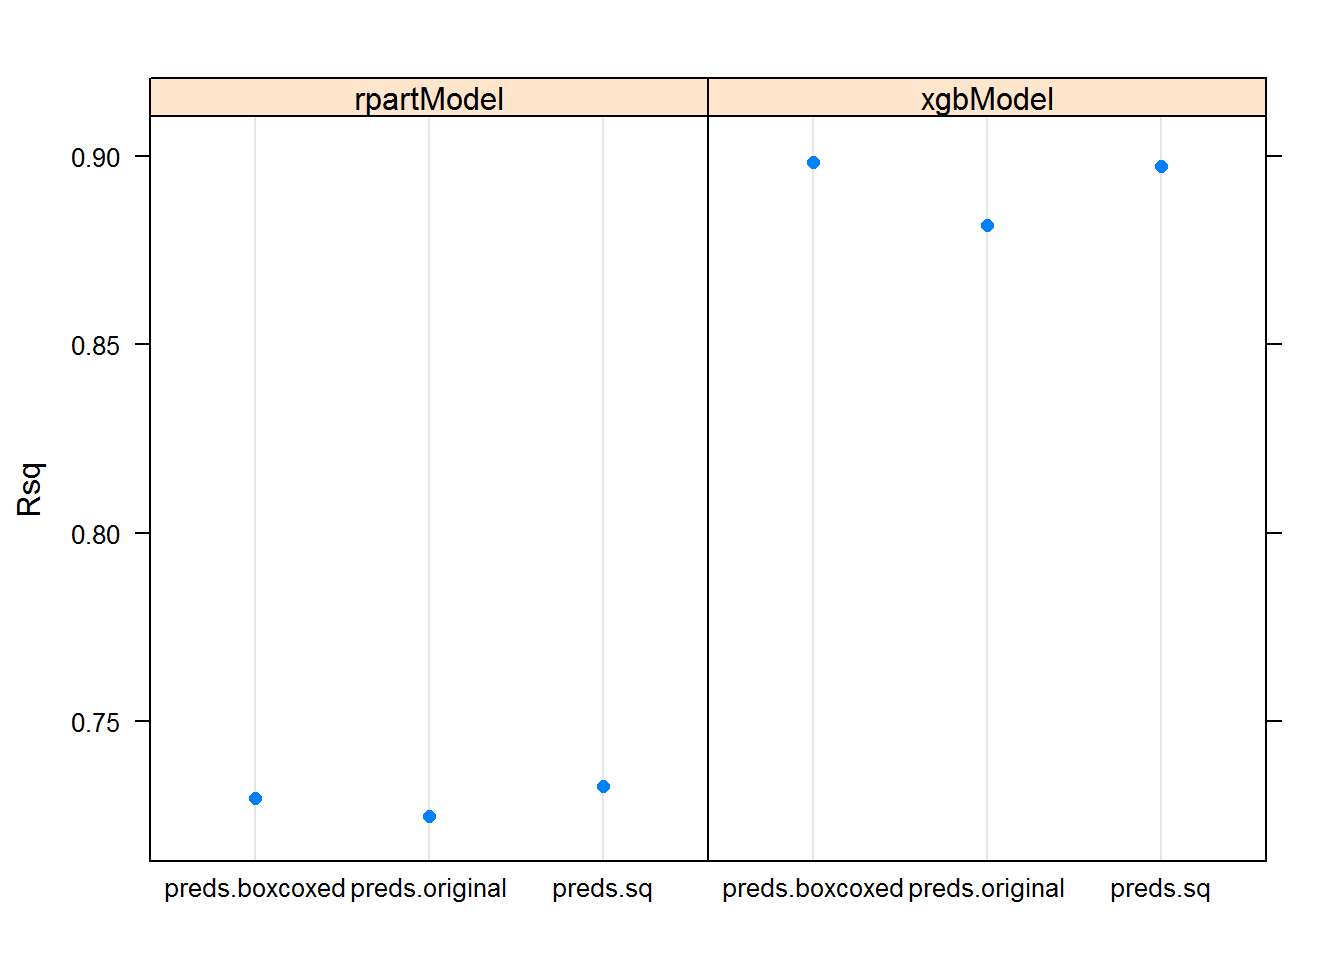
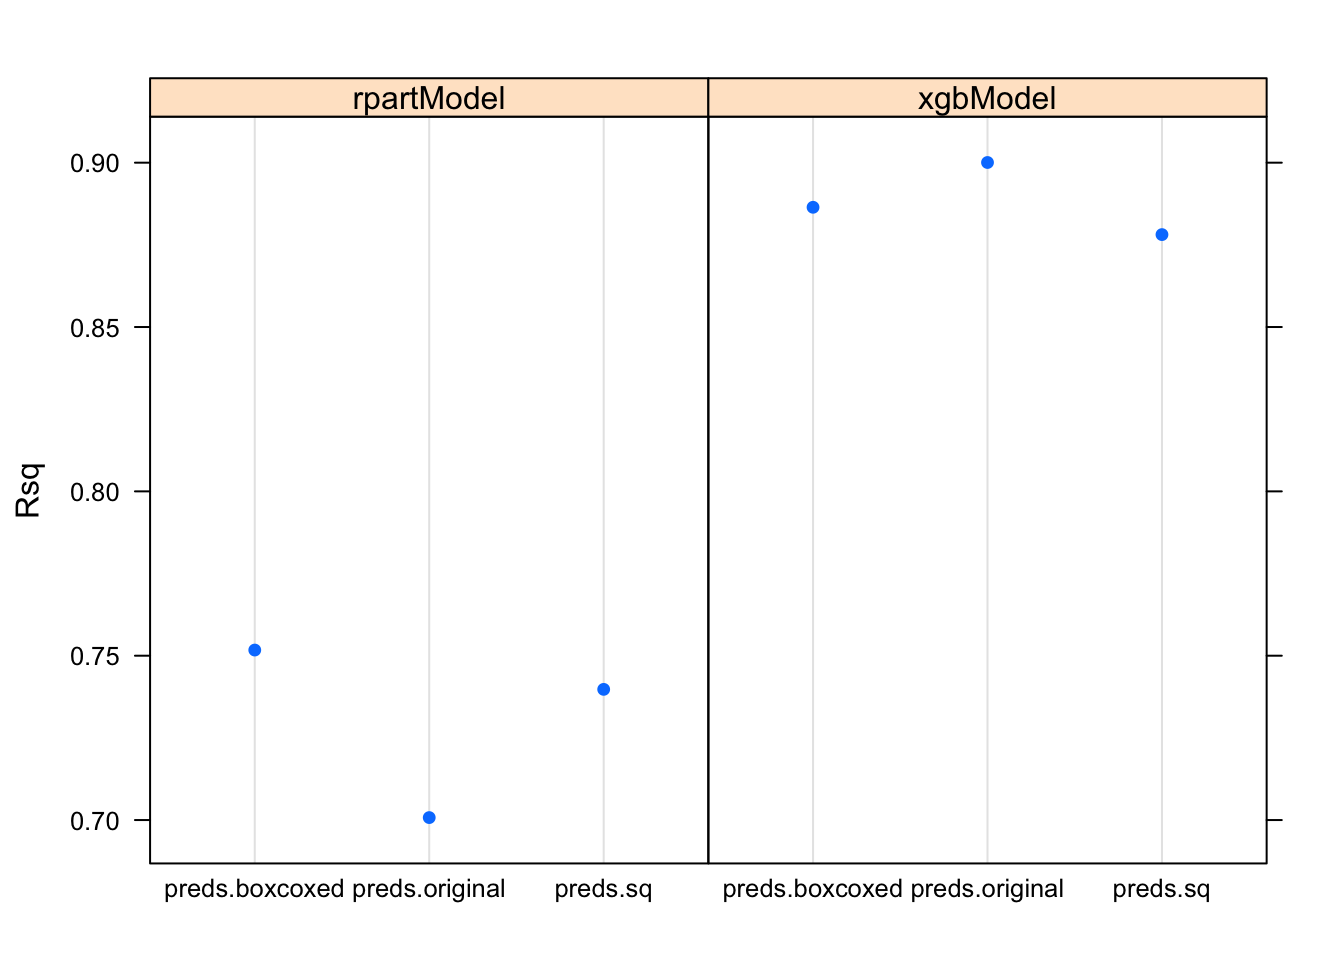
Creates FA_traits project page.

diff --git a/content/project/2016-09-03-factor-analysis-of-personality-traits.html b/content/project/2016-09-03-factor-analysis-of-personality-traits.html
@@ -1,0 +1,130 @@
+---
+title: Factor Analysis of Personality Traits
+author: Rahul Sangole
+date: '2016-09-03'
+slug: factor-analysis-of-personality-traits
+categories:
+  - R
+tags:
+  - R
+  - factor analysis
+  - multivariate
+output:
+  blogdown::html_page:
+    toc: true
+---
+
+
+<div id="TOC">
+<ul>
+<li><a href="#background">Background</a></li>
+<li><a href="#objective">Objective</a></li>
+<li><a href="#duplication-of-the-survey">Duplication of the Survey</a></li>
+<li><a href="#results">Results</a></li>
+<li><a href="#what-does-the-factor-analysis-tell-us">What does the factor analysis tell us?</a></li>
+<li><a href="#conclusion">Conclusion</a></li>
+<li><a href="#how-many-factors-to-select">How many factors to select?</a></li>
+<li><a href="#wheres-the-r-code">Where’s the R code?</a></li>
+</ul>
+</div>
+
+<div id="background" class="section level3">
+<h3>Background</h3>
+<p>In the course <a href="http://sps.northwestern.edu/program-areas/graduate/predictive-analytics/program-courses.php?course_id=2809&amp;term=4640">Predict-410</a>: Linear Regression &amp; Multivariate Analyses, taught by the excellent <a href="http://www.syamalasrinivasan.com/">Prof Srinivasan</a>, we were taught Factor Analysis (FA). FA is a technique used to identify ‘latent’ or ‘hidden’ factors common to a larger pool of observable or measurable variables. These factors would cause the measurable variables to behave the way they do. Typically, the aim is to identify a smaller set of factors (k) compared to the number of variables (n), i.e. k&lt;&lt;&lt;n. We expect a smaller set of common factors to cause the variances in the measured variables. This is a useful method of dimension reduction.</p>
+<p>In course of learning about factor analysis, I found a few good resources on the subject. One of them, <a href="http://web.stanford.edu/class/psych253/tutorials/FactorAnalysis.html">here</a>, applies factor analysis to a data set collected by Prof Malle of Brown University. <a href="https://www.brown.edu/Departments/CLPS/people/bertram-malle">Prof Malle</a> collected data on 32 personality traits, as reported via a self-evaluation of 240 participants.</p>
+</div>
+<div id="objective" class="section level3">
+<h3>Objective</h3>
+<p>The objective of the original study, as stated by the article: ‘… it’s unlikely there are actually 32 different dimensions of personality; rather people probably vary along a small number of dimensions…’.</p>
+<p>My objective:</p>
+<ol style="list-style-type: decimal">
+<li>Recreate this study and see for myself: Can I replicate the results?</li>
+<li>How many factors will I need to account for most of the variation?</li>
+<li>How would I interpret the factors I find? How would these align to my expectations about overall personality traits and align ?</li>
+</ol>
+</div>
+<div id="duplication-of-the-survey" class="section level3">
+<h3>Duplication of the Survey</h3>
+<p>I re-created a version of Prof Malle’s survey on <a href="https://www.surveymonkey.com/r/MN82SJ7">survey monkey</a>. The survey is still open, so feel free to take it. At the point of writing this post, I had a total of 61 responses from my Facebook friends. It would be nice to match Prof Malle’s sample size of 240.</p>
+<p>The survey asks:</p>
+<ul>
+<li><p>“How strongly do the following personality traits describe you?</p></li>
+<li><p>Distant, Talkative, Careless, Hardworking, Anxious, Agreeable, Tense, Kind, Relaxed, Disorganised, Outgoing, Approving, Shy, Disciplined, Harsh, Perseverant, Friendly, Worrying, Responsible, Contradictory, Sociable, Lazy, Cooperative, Quiet, Organized, Critical, Lax, Laidback, Withdrawn, Give up easily, Easy going.&quot;</p></li>
+</ul>
+</div>
+<div id="results" class="section level3">
+<h3>Results</h3>
+<div id="how-do-the-traits-relate-to-one-another" class="section level4">
+<h4>How do the traits relate to one another?</h4>
+<p>A correlation plot with the 32 traits ordered using hierarchical clustering using <a href="https://arxiv.org/pdf/1111.6285.pdf">Ward’s minimum variance agglomeration method</a>. The <a href="https://cran.r-project.org/web/packages/corrplot/corrplot.pdf">corrplot</a> package in R implements this method.</p>
+<p>The X and Y axes of this plot are the 32 traits sorted according to Ward’s method. The sorting results in very intelligent grouping. The intensity of the colour and size of the colored square in each cell indicates the strength of Pearson’s correlation coefficient between each pair.</p>
+<p>I have highlighted 8 <strong>black</strong> rectangles which show grouping between <strong>similar</strong> traits. For example, the first box contains <em>Worrying</em>, <em>Anxious</em>, and <em>Tense</em>, traits very similar to one another. The third box contains <em>Disciplined</em>, <em>Organized</em>, <em>Hardworking</em>, and <em>Responsible.</em></p>
+<p>Three <strong>red</strong> boxes highlight dissimilar or opposite traits. Take the first red box (top mid). On the X axis, we have <em>Easy Going</em>, <em>Relaxed</em> and <em>Laidback</em>, while on the Y axis, we have <em>Worrying</em>, <em>Anxious</em>, and <em>Tense</em>.</p>
+<div class="figure">
+<img src="/project/fa_traits/corrplot.png" width="500" />
+
+</div>
+<p>The groupings in the correlation plot &amp; their magnitudes agree very well with Prof Malle’s findings.</p>
+</div>
+</div>
+<div id="what-does-the-factor-analysis-tell-us" class="section level3">
+<h3>What does the factor analysis tell us?</h3>
+<p>Again, the objective here is: are there a few “factors” that explain personalities well as measured by the 32 personality traits? After <a href="http://sites.stat.psu.edu/~ajw13/stat505/fa06/17_factor/13_factor_varimax.html">varimax rotations</a> on the factors, the factor plots show wonderful results!</p>
+<p>To read the graphs, read the personality trait labels at the very extremes of the X and Y axes. These represent the traits with the highest loadings for each factor. The rotated factor plots were surprisingly intuitive to read.</p>
+<p>Factor 1 is Introvert/Extrovert. Factor 2 is the propensity to worry, or Anxiety Level.</p>
+<div class="figure">
+<img src="/project/fa_traits/f1vsf2nf9.png" width="450" />
+
+</div>
+<p>Factor 3 seems to be Friendliness (or Approachable vs Reserved).</p>
+<div class="figure">
+<img src="/project/fa_traits/f2vsf3nf9.png" width="450" />
+
+</div>
+<p>Factor 4 clearly is Organized vs Disorganized.</p>
+<div class="figure">
+<img src="/project/fa_traits/f3vsf4nf9.png" width="450" />
+
+</div>
+<p>Factor 5 can be defined as Conscientiousness, or the willingness to be perseverant, to do hard work.</p>
+<div class="figure">
+<img src="/project/fa_traits/f4vsf5nf9.png" width="450" />
+
+</div>
+</div>
+<div id="conclusion" class="section level3">
+<h3>Conclusion</h3>
+<ul>
+<li>We have been able to reduce 32 personality traits into 5 common traits:
+<ul>
+<li>Introvert/Extrovert</li>
+<li>Propensity for Anxiety</li>
+<li>Friendliness</li>
+<li>Organized/Disorganized</li>
+<li>Conscientiousness</li>
+</ul></li>
+<li>I was pleased to find that my result agreed very well with Prof Malle’s study. All in all, the factors extracted make intuitive sense when one thinks about overarching personality traits.</li>
+</ul>
+<p>How exciting is factor analysis? :D</p>
+</div>
+<div id="how-many-factors-to-select" class="section level3">
+<h3>How many factors to select?</h3>
+<p>There are a couple of methods to select the number of factors to keep. A scree plot plots the eigenvalues of the correlation matrix of the manifest variables against the factor number. The <a href="https://cran.r-project.org/web/packages/nFactors/nFactors.pdf">nscree package</a> can help get Scree plots.</p>
+<div class="figure">
+<img src="/project/fa_traits/scree.png" width="500" />
+
+</div>
+<ol style="list-style-type: decimal">
+<li>Kaiser rule (select factors with eigenvalues &gt; 1 for corr matrices) results in 9 factors to be selected.</li>
+<li>Visual inspection of the scree plot: The knee in the plot is at 4 factors. This is numerically computed as the Acceleration Factor (AF).</li>
+<li>Optimal Coordinates (OC) results in selection of 5 factors.</li>
+</ol>
+<p>Another way to test the number of factors required is to look at the results of the chi-square test for the hypothesis test:</p>
+<p>H0: ‘n’ factors are sufficient Ha: More factors are needed</p>
+<p>For the 5 factor model, the chi square statistic is 403.6 for 320 degrees of freedom. The p-value is 0.00104, so we can strongly reject the null hypothesis that 5 factors are sufficient. Increasing to the 9 factor model, the chi square statistic is 241 on 222 degrees of freedom. P-value is 0.18, so we fail to reject the null hypothesis.</p>
+<p>I’ve tested using 5 factors as well as 9 factors. The order of the factors and their interpretation change depending on how many factors are selected. This is unlike a PCA. Also, for the 9 factor case, the plots really do not reveal anything interesting beyond 5 factors.</p>
+</div>
+<div id="wheres-the-r-code" class="section level3">
+<h3>Where’s the R code?</h3>
+<p>The raw data and the R code is stored on <a href="https://github.com/rsangole/PersonalityTraitFactorAnalysis">Github</a>.</p>
+</div>

diff --git a/content/post/2017-09-17-pur-r-ify-your-carets.html b/content/post/2017-09-17-pur-r-ify-your-carets.html
@@ -147,9 +147,9 @@ starter_df</code></pre>
 <pre><code>## # A tibble: 3 x 3
 ##      id                 rawdata   pred_varsets
 ##   &lt;int&gt;                  &lt;list&gt;          &lt;chr&gt;
-## 1     1 &lt;data.frame [506 x 14]&gt; preds.boxcoxed
-## 2     2 &lt;data.frame [506 x 14]&gt; preds.original
-## 3     3 &lt;data.frame [506 x 14]&gt;       preds.sq</code></pre>
+## 1     1 &lt;data.frame [506 x 39]&gt; preds.boxcoxed
+## 2     2 &lt;data.frame [506 x 39]&gt; preds.original
+## 3     3 &lt;data.frame [506 x 39]&gt;       preds.sq</code></pre>
 <p>Now, I split the raw data into <code>train.X</code> column which houses data only for those predictor variables identified in the <code>pred_varsets</code> column. <code>map2</code> is a great function which allows a mapping to be done over two variables and passed to a function.</p>
 <p>I also create a <code>train.Y</code> for the response variable here.</p>
 <pre class="r"><code># Function to select columns in the raw data
@@ -170,9 +170,9 @@ starter_df</code></pre>
 <pre><code>## # A tibble: 3 x 4
 ##      id   pred_varsets                 train.X     train.Y
 ##   &lt;int&gt;          &lt;chr&gt;                  &lt;list&gt;      &lt;list&gt;
-## 1     1 preds.boxcoxed  &lt;data.frame [506 x 0]&gt; &lt;dbl [506]&gt;
+## 1     1 preds.boxcoxed &lt;data.frame [506 x 13]&gt; &lt;dbl [506]&gt;
 ## 2     2 preds.original &lt;data.frame [506 x 13]&gt; &lt;dbl [506]&gt;
-## 3     3       preds.sq  &lt;data.frame [506 x 0]&gt; &lt;dbl [506]&gt;</code></pre>
+## 3     3       preds.sq &lt;data.frame [506 x 12]&gt; &lt;dbl [506]&gt;</code></pre>
 <hr />
 </div>
 <div id="select-the-models" class="section level3">
@@ -298,12 +298,12 @@ train_df %&gt;% dplyr::select(-train.X,-train.Y,-params,-modelFits)</code></pre>
 <pre><code>## # A tibble: 6 x 8
 ##      id   pred_varsets  modelName  model     RMSE    RMSESD       Rsq
 ##   &lt;int&gt;          &lt;chr&gt;      &lt;chr&gt; &lt;list&gt;    &lt;dbl&gt;     &lt;dbl&gt;     &lt;dbl&gt;
-## 1     1 preds.boxcoxed rpartModel  &lt;fun&gt; 5.934659 0.6962721 0.7473779
-## 2     2 preds.original rpartModel  &lt;fun&gt; 6.098708 0.8898782 0.7373222
-## 3     3       preds.sq rpartModel  &lt;fun&gt; 6.438545 1.2966672 0.7008793
-## 4     4 preds.boxcoxed   xgbModel  &lt;fun&gt; 3.405298 0.3950785 0.8946855
-## 5     5 preds.original   xgbModel  &lt;fun&gt; 3.327867 0.5043939 0.9014258
-## 6     6       preds.sq   xgbModel  &lt;fun&gt; 3.512237 0.5828038 0.8752944
+## 1     1 preds.boxcoxed rpartModel  &lt;fun&gt; 5.757858 1.0320396 0.7517200
+## 2     2 preds.original rpartModel  &lt;fun&gt; 6.218392 1.0548366 0.7007499
+## 3     3       preds.sq rpartModel  &lt;fun&gt; 5.820171 0.8113143 0.7397611
+## 4     4 preds.boxcoxed   xgbModel  &lt;fun&gt; 3.389804 0.4167671 0.8864316
+## 5     5 preds.original   xgbModel  &lt;fun&gt; 3.372281 0.4943425 0.9000574
+## 6     6       preds.sq   xgbModel  &lt;fun&gt; 3.608456 0.8137075 0.8781208
 ## # ... with 1 more variables: bestTune &lt;list&gt;</code></pre>
 <p>This allows us to very quickly visualize the results using <code>lattice</code> or <code>ggplot</code> <em>across all models</em>.</p>
 <pre class="r"><code>lattice::dotplot(Rsq~pred_varsets|modelName,train_df)</code></pre>

diff --git a/themes/minimal/layouts/partials/footer.html b/themes/minimal/layouts/partials/footer.html
@@ -1,10 +1,8 @@
         <footer>
 
+        <!-- COPYRIGHT -->
+        <p class="copyright text-muted">{{ .Site.Params.copyright | default "&copy; R Sangole" | markdownify }}</p>
 
-            <!-- COPYRIGHT -->
-            <p class="copyright text-muted">{{ .Site.Params.copyright | default "&copy; R Sangole" | markdownify }}</p>
-
-        <!--        {{ template "_internal/google_analytics.html" . }} -->
         <!-- Global Site Tag (gtag.js) - Google Analytics -->
         <script async src="https://www.googletagmanager.com/gtag/js?id={{ .Site.GoogleAnalytics }}"></script>
         <script>
@@ -15,7 +13,6 @@
         </script>
         <!-- END GOOGLE ANALYTICS -->
 
-
         <!-- highlight.js script from https://bookdown.org/yihui/blogdown/templates.html -->
         <script src="//cdn.bootcss.com/highlight.js/9.12.0/highlight.min.js"></script>
         <script src="//cdn.bootcss.com/highlight.js/9.12.0/languages/r.min.js"></script>
@@ -25,7 +22,6 @@
         hljs.initHighlightingOnLoad();
         </script>
         <!-- END highlight.js -->
-
 
         </footer>
     </body>
